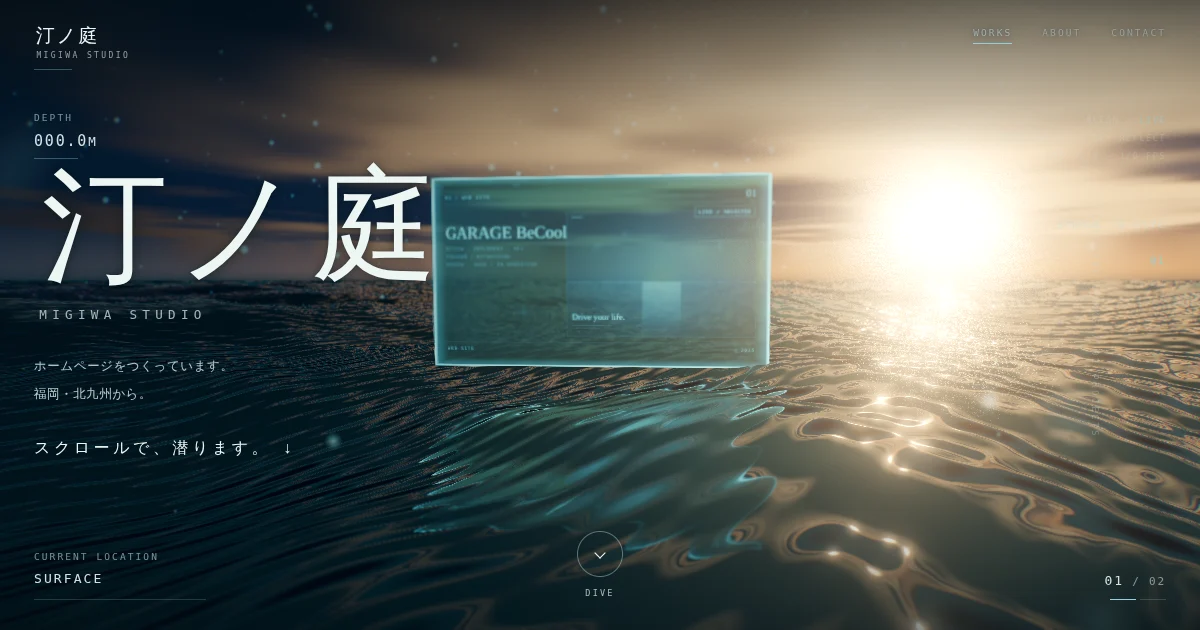
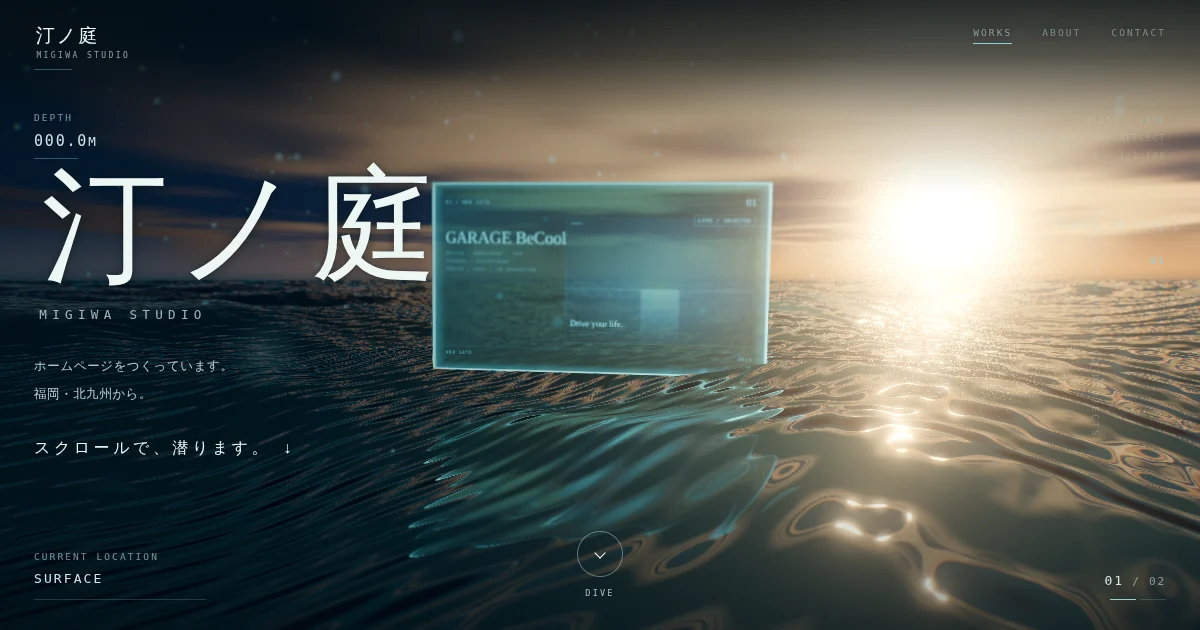
migiwa: 汀の魚にピントを送り、線の上で読める大きさにする
被写界深度でにじんだままだと、せっかくの1匹が光の筋にしか見えない。
汀の区間だけ、背景ではなくその1匹へピントを送る（奥はどのみち霧で
柔らかいので失うものが無い）。

あわせて画面に占める大きさを上げた。placeNdc の wantW は NDC の幅
なので、画面に占める割合はその半分になる。0.14 では横1600pxで
87px しかなく、にじみに負けていた。

共有カードの画像も、上端の沈みを直したあとの1枚に作り直した。

Claude-Session: https://claude.ai/code/session_01RstcE98revFidW9PnvdbL1

diff --git a/public/migiwa/index.html b/public/migiwa/index.html
@@ -4353,7 +4353,11 @@ function frame(mode){
   atmosPass.uniforms.uDepth01.value = depth01;
   atmosPass.uniforms.uTime.value = t;
   // 被写界深度。焦点は"いま見ている作品"、絞りは深いほど開く
-  const targetFocus = focusAmt > 0.12 ? focusDist : 8.5;
+  /* 汀では、線の上を通る1匹へピントを送る。ここだけ背景ではなく生き物に
+     合わせる(奥はどのみち霧で柔らかいので、失うものが無い)。
+     被写界深度でにじんだままだと、せっかくの1匹が光の筋にしか見えない。 */
+  const targetFocus = (hpR > 0.26 && fishHeroDist > 0) ? fishHeroDist
+                    : (focusAmt > 0.12 ? focusDist : 8.5);
   atmosPass.uniforms.uFocus.value += (targetFocus - atmosPass.uniforms.uFocus.value) * Math.min(1, dt*1.6);
   atmosPass.uniforms.uAperture.value = 0.16 + 0.42*depth01;
   /* 潜水カメラの順応。深いほど僅かに開き、暗部の階調を残す
@@ -4544,6 +4548,7 @@ const F_UP = new THREE.Vector3(0,1,0);
 let fishReady = false;          // 助走を済ませたか
 let fishIdleT = 0, fishVSm = 0, fishPrevCamY = 0.95, fishT = 0;
 let heroFlashCool = 0, hero1Fired = false, hero1T = -1;
+let fishHeroDist = 0;           // 汀の魚までの距離。ピントを送るのに使う
 let fishBudget = 3;
 /* 品質の梯子は「距離」だけを落とす。数も振る舞いも1つも減らさない。
    重い端末では魚が近寄ってこない ＝ 塗る面積を自動的に払わない。
@@ -4604,12 +4609,14 @@ function updateFish(fdt, focusAmt){
   /* 出来事2「汀」。水平線の上を横切る1匹。
      ★ hpR の純関数。時間で駆動すると巻き戻したとき違う場所に出る。 */
   const heroSeam = hpR > 0.24 && hpR < 0.99;
+  if (!heroSeam) fishHeroDist = 0;
 
   const tanH = Math.tan(camera.fov * Math.PI/360);
   const aspect = camera.aspect;
   /* NDC の狙った場所へ、狙った画面幅で置く(端末と画角に依存しない)。
      ★ 実寸は板の 0.42 ではなく「板 × その個体の倍率」。倍率を忘れると
      狙った幅の倍以上に大きく写る(実測 3.98m のところ 8.1m が正しい)。 */
+  /* wantW は NDC の幅。画面に占める割合はその半分になる(NDCは -1..1)。 */
   const placeNdc = (out, nx, ny, wantW, len) => {
     const dist = len / Math.max(1e-4, wantW * tanH * aspect);
     _fs.copy(camFwd).cross(F_UP).normalize();                    // 右
@@ -4637,7 +4644,8 @@ function updateFish(fdt, focusAmt){
          来るので体の下半分が紙の裏へ回り、光の滲みにしか見えない。
          線のすぐ上（画面高の 5.5%）を泳がせて、腹が線をかすめる形にする。
          画角に対する比で置くので、端末が変わっても同じ絵になる。 */
-      placeNdc(_fp, nx, 0.055, aspect < 1 ? 0.30 : 0.14, 0.42*2.10);
+      placeNdc(_fp, nx, 0.055, aspect < 1 ? 0.42 : 0.18, 0.42*2.10);
+      fishHeroDist = _fp.distanceTo(cam);
       fPos[o] = _fp.x; fPos[o+1] = _fp.y; fPos[o+2] = _fp.z;
       _fs.copy(camFwd).cross(F_UP).normalize().multiplyScalar(-1);   // 真横(左向き)
       fDir[o] = _fs.x; fDir[o+2] = _fs.z;
